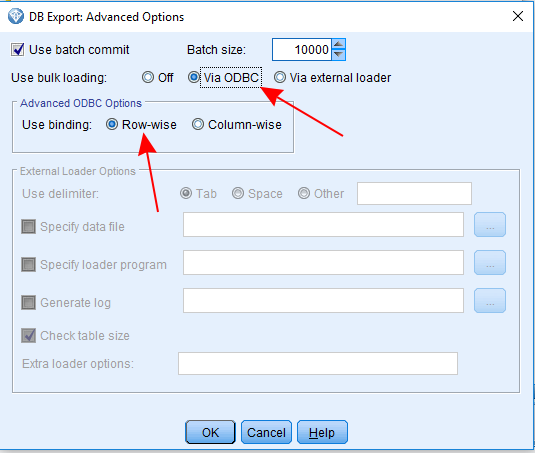
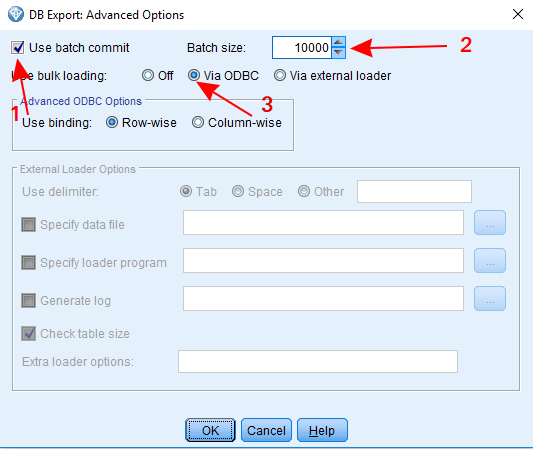
Added instructions for batch export

diff --git a/integration/spss/modeler/README.md b/integration/spss/modeler/README.md
@@ -228,8 +228,11 @@ add it to the stream
 
   ![](images/modeler_41.png)
   
-- In the Advanced Options window set **Use bulk loading** to **Via ODBC** and **Use binding** to
-**Row-wise**. Click **OK** to save and exit.
+- In the Advanced Options window
+  - Check **Use batch commit**
+  - Set batch size large enough to load all your export data in a single batch
+  - Set **Use bulk loading** to **Via ODBC**
+  - Click **OK** to save and exit.
 
   ![](images/modeler_42.png)
   
